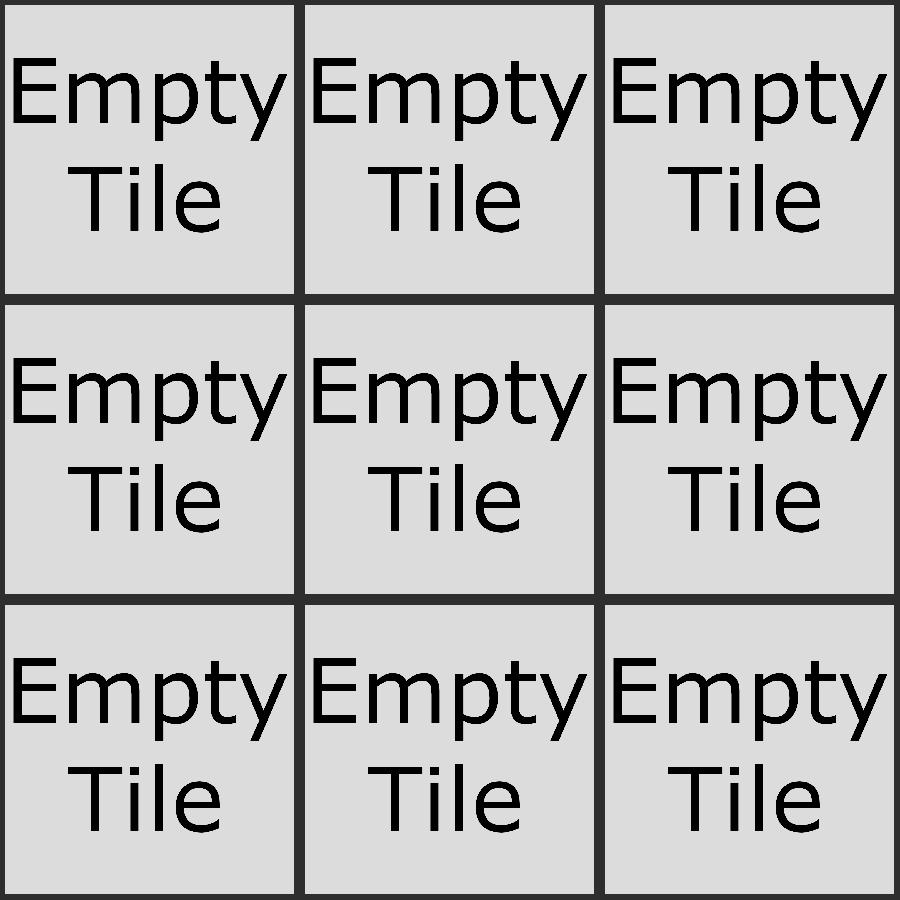
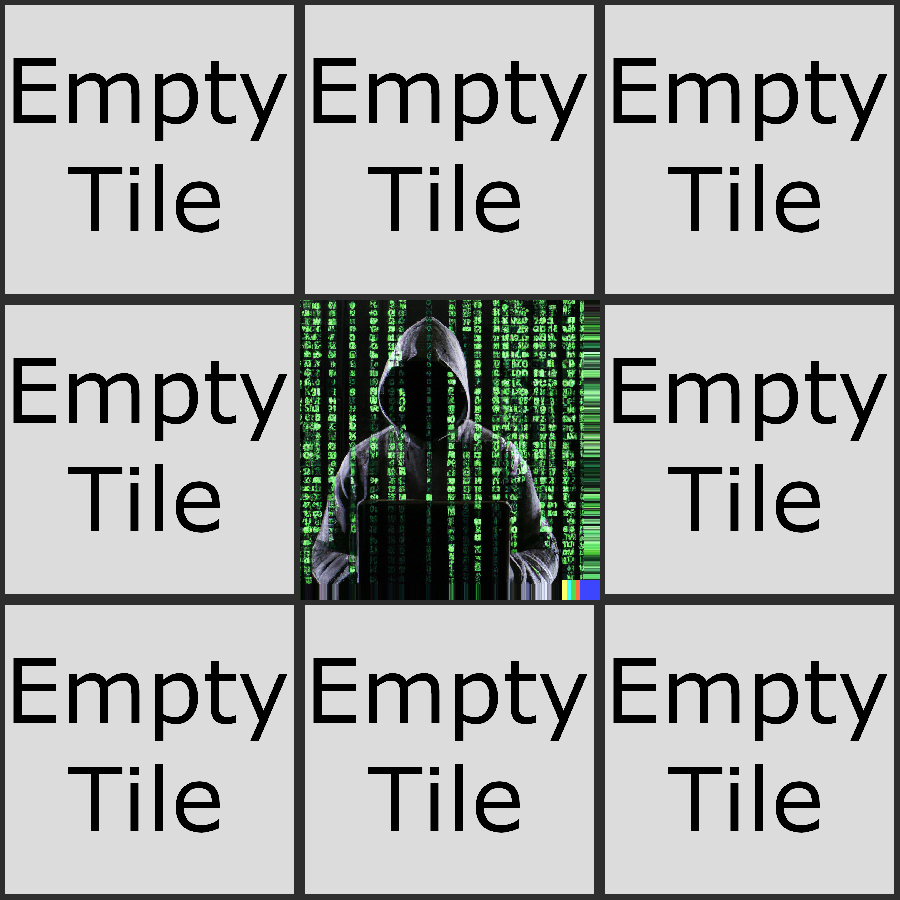
grid system works

Changed region(s): [[0.3111, 0.3111, 0.6844, 0.6844]]

diff --git a/GD2P03_Assingment1_Starter/main.cpp b/GD2P03_Assingment1_Starter/main.cpp
@@ -23,9 +23,11 @@ void screenshot(std::string fileSaveLocation, sf::Window* window)
 int main()
 {
 	Grid grid;
+	grid.InitGrid();
 	std::chrono::steady_clock::time_point startTime;
 	int windowSize = 900;
-	int imageCount = 9;
+	int imageCount = 0;
+	int currentPage = 0;
 	sf::RenderWindow window(sf::VideoMode(windowSize, windowSize), "GD2P03 Assignment 1");
 	
 	CDownloader downloader;
@@ -67,7 +69,7 @@ int main()
 	std::mutex countMutex;
 	startTime = std::chrono::steady_clock::now();
 	int count = 0;
-
+	std::vector<std::string> filePaths;
 	auto DownloadImageToFile = [&]() {
 
 		int localCount;
@@ -77,8 +79,9 @@ int main()
 			count++;
 		}
 		std::string filePath = "Images/" + urls[localCount].substr(urls[localCount].find_last_of('/') + 1);
-
+		filePaths.push_back(filePath);
 		std::ifstream file(filePath);
+
 		if (!file.good()) {
 			if (downloader.DownloadToFile(urls[localCount].c_str(), filePath.c_str())) {
 
@@ -92,29 +95,29 @@ int main()
 		return 0;
 		};
 
-	
-	std::vector<std::future<int>> futures;
-	for (int i = 0; i < 3; i++) {
 
-		for (int j = 0; j < 3; j++) {
-			std::cout << i << " | " << j<< std::endl;
+	std::vector<std::future<int>> futures;
+	for (int i = 0; i < imageCount; i++) {
 			futures.push_back(std::async(std::launch::async, DownloadImageToFile));
-		}
 	}
 	std::cout << " threads started" << std::endl;
 	int countStart = 0;
 	for (auto& future : futures) {
 		future.get(); // Wait for all threads to finish
-
+		
 		countStart++;
 		std::cout<<countStart<<std::endl;
 	}
-	
+	for (int i = 0; i < filePaths.size(); i++) {
+		std::cout << filePaths[i] << std::endl;
+	}
 	auto endTime = std::chrono::steady_clock::now(); // End the timer
 	auto elapsedTime = std::chrono::duration_cast<std::chrono::milliseconds>(endTime - startTime).count();
 	std::cout << "Total time taken to load images: " << elapsedTime << " milliseconds" << std::endl;
 
-	grid.InitGrid();
+	sf::Texture txt;
+	txt.loadFromFile("Images/Anonymous_Hacker.png");
+	grid.setTileTextures(0,1, 1, &txt);
 	while (window.isOpen())
 	{
 		sf::Event winEvent;
@@ -129,7 +132,8 @@ int main()
 
 		window.clear();
 		//std::cout << grid.m_grid.size() << std::endl;
-		for (auto& row : grid.m_grid) {
+
+		for (auto& row : grid.m_grid[currentPage]) {
 			for (auto& tile : row) {
 				window.draw(tile.m_image);
 			//	std::cout << "d";

diff --git a/GD2P03_Assingment1_Starter/Grid.cpp b/GD2P03_Assingment1_Starter/Grid.cpp
@@ -1,29 +1,56 @@
 #include "Grid.h"
 
+void Grid::setTileTextures(int _page, int _x, int _y, sf::Texture* _texture)
+{
+	m_grid[_page][_x][_y].m_empty = false;
+	m_grid[_page][_x][_y].m_image.setTexture(_texture, false);
+}
+
 void Grid::InitGrid()
 {
-	m_grid.resize(m_gridSize, std::vector<FileImages>(m_gridSize));
-	int x = 0;
-	int y = 0;
-	for (int i = 0; i < m_gridSize; i++) {
+	m_grid.resize(m_gridSize, std::vector<std::vector<FileImages>>(m_gridSize, std::vector<FileImages>(m_gridSize)));
+	int pageCount = round((m_gridCount / (m_gridSize * m_gridSize) + 0.5f));
+	std::cout << pageCount << std::endl;
+	for (int page = 0; page < pageCount; page++) {
+		for (int i = 0; i < m_gridSize; i++) {
 
-		for (int j = 0; j < m_gridSize; j++) {
-		
-			m_grid[i][j].m_empty = true;
-			m_grid[i][j].m_image.setTexture(&m_emptyTexure,false);
-			m_grid[i][j].m_image.setPosition(m_tileSize.x*i, m_tileSize.y*j);
-			m_grid[i][j].m_image.setSize(m_tileSize);
+			for (int j = 0; j < m_gridSize; j++) {
+
+				m_grid[page][i][j].m_empty = true;
+				m_grid[page][i][j].m_image.setTexture(&m_emptyTexure, true);
+				m_grid[page][i][j].m_image.setPosition(m_tileSize.x * i, m_tileSize.y * j);
+				m_grid[page][i][j].m_image.setSize(m_tileSize);
+			}
 		}
 	}
-	std::cout << x << " | " << y << std::endl;
+}
+
+void Grid::ResizeGrid()
+{
+	m_gridSize = 3;
+	m_tileSize = sf::Vector2f(900 / m_gridSize, 900 / m_gridSize);
+	
+
+	m_grid.resize(m_gridSize, std::vector<std::vector<FileImages>>(m_gridSize, std::vector<FileImages>(m_gridSize)));
+	int pageCount = round((m_gridCount / (m_gridSize * m_gridSize) + 0.5f));
+	for (int page = 0; page < pageCount; page++) {
+		for (int i = 0; i < m_gridSize; i++) {
+
+			for (int j = 0; j < m_gridSize; j++) {
+
+				m_grid[page][i][j].m_image.setPosition(m_tileSize.x * i, m_tileSize.y * j);
+				m_grid[page][i][j].m_image.setSize(m_tileSize);
+			}
+		}
+	}
 }
 
 Grid::Grid()
 {
-	m_gridSize = 4;
-	m_gridCount = 0;
+	m_gridSize = 3;
+	m_gridCount = 9;
 	m_tileSize = sf::Vector2f(900/m_gridSize, 900/m_gridSize);
-	m_emptyTexure.loadFromFile("Images/emptyTile.png");
+	m_emptyTexure.loadFromFile("emptyTile.png");
 }
 
 Grid::~Grid()

diff --git a/GD2P03_Assingment1_Starter/Grid.h b/GD2P03_Assingment1_Starter/Grid.h
@@ -4,21 +4,23 @@
 #include <vector>
 #include <iostream>
 #include <string>
+#include <cmath>
 class Grid
 {
 public:
-	std::vector<std::vector<FileImages>> m_grid;
+	std::vector<std::vector<std::vector<FileImages>>> m_grid;
+	//epic 3 dimensional array elements are: page, x, y
 	sf::Vector2f m_tileSize;
 	int m_gridSize;
 	//size of grid
 	sf::Texture m_emptyTexure;
 	int m_gridCount;
 
-	void setTileTexture(int _x, int _y, sf::Texture _texture);
+	void setTileTextures(int _page, int _x, int _y, sf::Texture* _texture);
 	//sets the texture of a tile in that position;
-	void addTile(FileImages tile);
-	void addRowCol();
 	void InitGrid();
+
+	void ResizeGrid();
 	//returns tile added position, automatically calculates where this tile should go
 	Grid();
 	~Grid();
